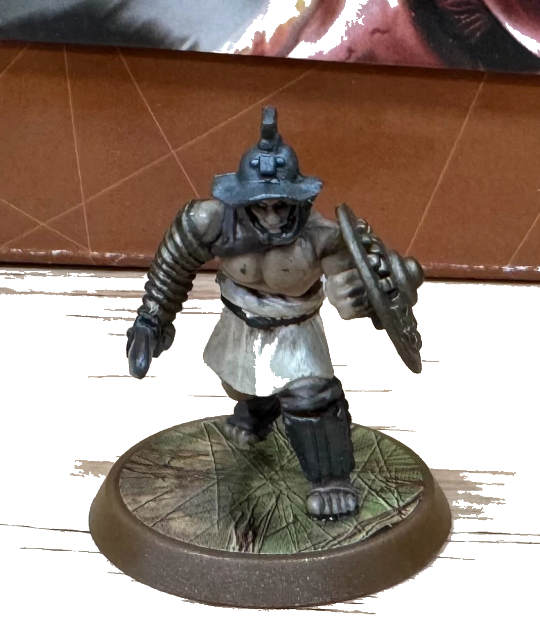
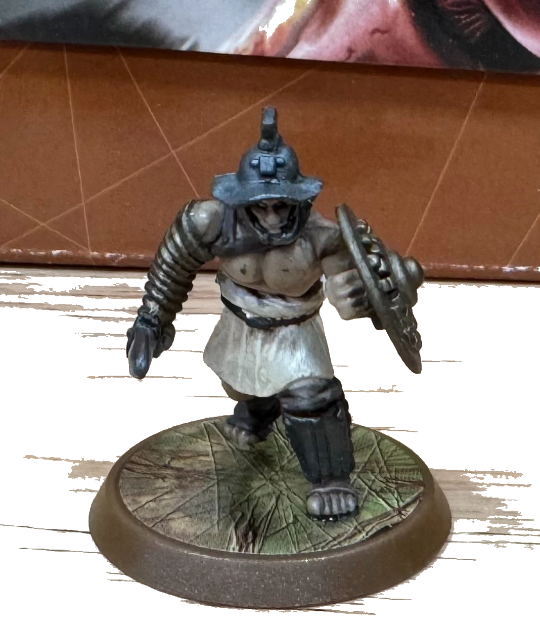
HS: gentler Capuan cuts — keep net/skirt/sword hand/base rim; level Retiarius +5deg
The tol-26/30 floods crept into the whites (net, skirt) and the base rim. Re-cut
at tol 17-18 so those survive — more wood/card background remains for the gallery
eraser, which is the right trade. Add rotate-png.mjs (rotate transparent cut CW
about centre + trim) and level the tilted Retiarius photo by +5deg; #2/#3 were
already near-level. Bump IMG_V.

diff --git a/src/app/heroscape-sandbox/page.tsx b/src/app/heroscape-sandbox/page.tsx
@@ -18,7 +18,7 @@ const HeroBoard3D = dynamic(() => import('@/components/HeroBoard3D'), { ssr: fal
 const COLORS = ['#ef4444', '#3b82f6', '#eab308', '#a855f7', '#ec4899', '#14b8a6'];
 // Cache-bust for the figure PNGs — bump whenever a cut-out is re-cut so the gallery (and
 // browser) fetch the new image instead of a stale same-named copy.
-const IMG_V = '20260701f';
+const IMG_V = '20260701g';
 
 function shade(hex: string, f: number): string {
   const n = parseInt(hex.slice(1), 16);